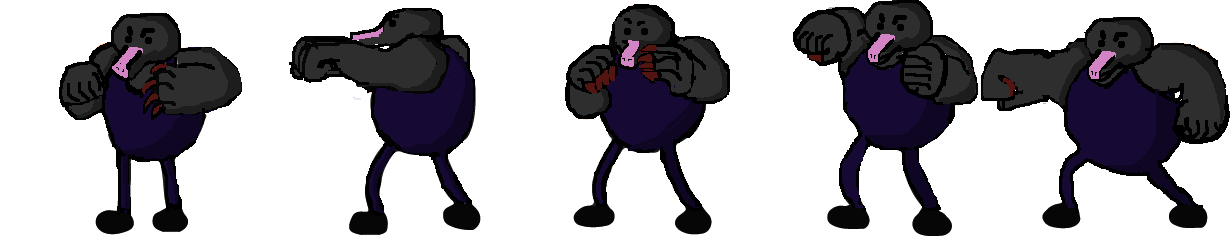
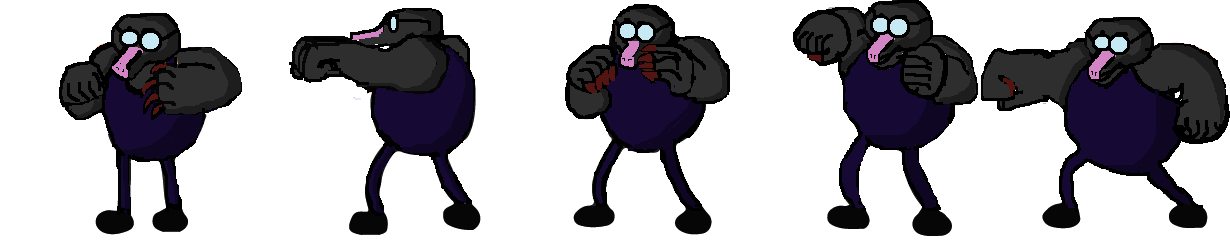
animation for moleman

diff --git a/public/game/gameEngine.js b/public/game/gameEngine.js
@@ -135,20 +135,17 @@ function gameEngine(image, audio, user, userData, isFriend){
     var sprite = [];
 
     var numberOfFrames = 5;
-    var frameheight = image['kall'].height;
-    var framewidth = image['kall'].width / numberOfFrames;
+    var frameheight = image['molekall1'].height;
+    var framewidth = image['molekall1'].width / numberOfFrames;
     var topX = 360;
     var topY = 380;
     var animationTime = 1;
     var scale = 1;
-
-    console.log('before image');
-    console.log(image['mole3']);
     
-    sprite.push(animation = new Sprite(image['molekall'],frameheight,framewidth,topX,topY,animationTime, numberOfFrames, scale, false));
-    sprite.push(animation = new Sprite(image['molekall1'],frameheight,framewidth,topX,topY,animationTime, numberOfFrames, scale, false));
+    sprite.push(animation = new Sprite(image['molekall1'],frameheight,framewidth,topX,topY,animationTime, 1, 0.5, false));
+    sprite.push(animation = new Sprite(image['molekall1'],frameheight,framewidth,topX,topY,animationTime, numberOfFrames, 0.5, false));
     sprite.push(animation = new Sprite(image['molekall2'],frameheight,framewidth,topX,topY,animationTime, numberOfFrames, scale, false));
-    sprite.push(animation = new Sprite(image['kall3'],frameheight,framewidth,topX,topY,animationTime, numberOfFrames, scale, false));
+    sprite.push(animation = new Sprite(image['molekall3'],frameheight,framewidth,topX,topY,animationTime, numberOfFrames, scale, false));
 
     Sprites.push(sprite);
 

diff --git a/public/game/Initialize.js b/public/game/Initialize.js
@@ -144,9 +144,9 @@ function imagePreload(callback){
       mole2         : "game/images/mole_animation-upgrade-2.png",
       mole3         : "game/images/mole_animation-upgrade-3.png",
 
-      molekall      : "game/images/molekall_animation.png",
       molekall1     : "game/images/molekall_animation-upgrade-1.png",
-      molekall2     : "game/images/molekall_anmiation-upgrade-2.png",
+      molekall2     : "game/images/molekall_animation-upgrade-2.png",
+      molekall3     : "game/images/molekall_animation-upgrade-3.png",
       
       moleheap      : "game/images/game-coconut-heap.png"
 
